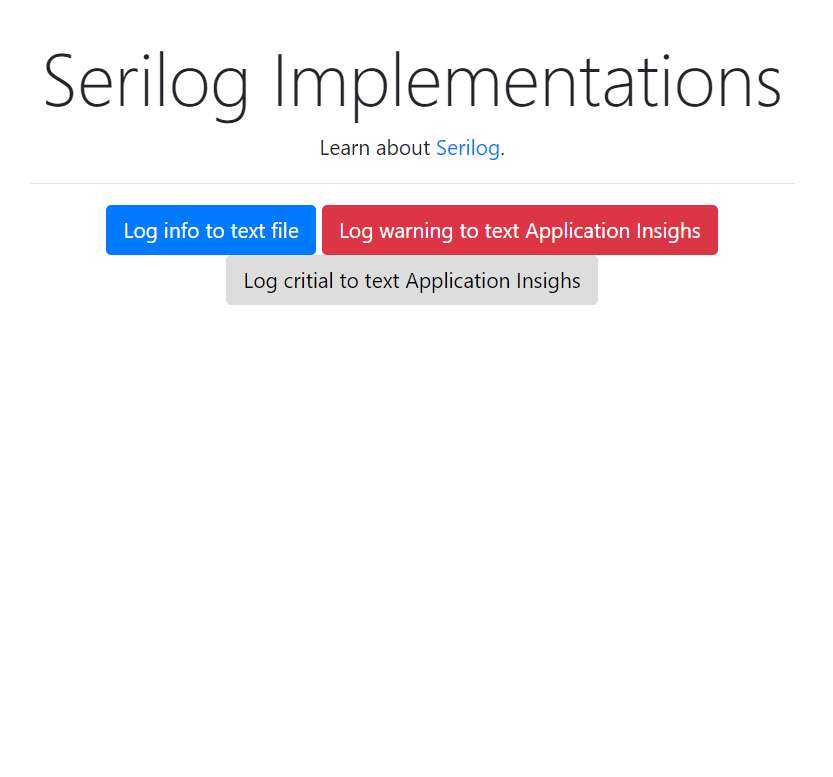
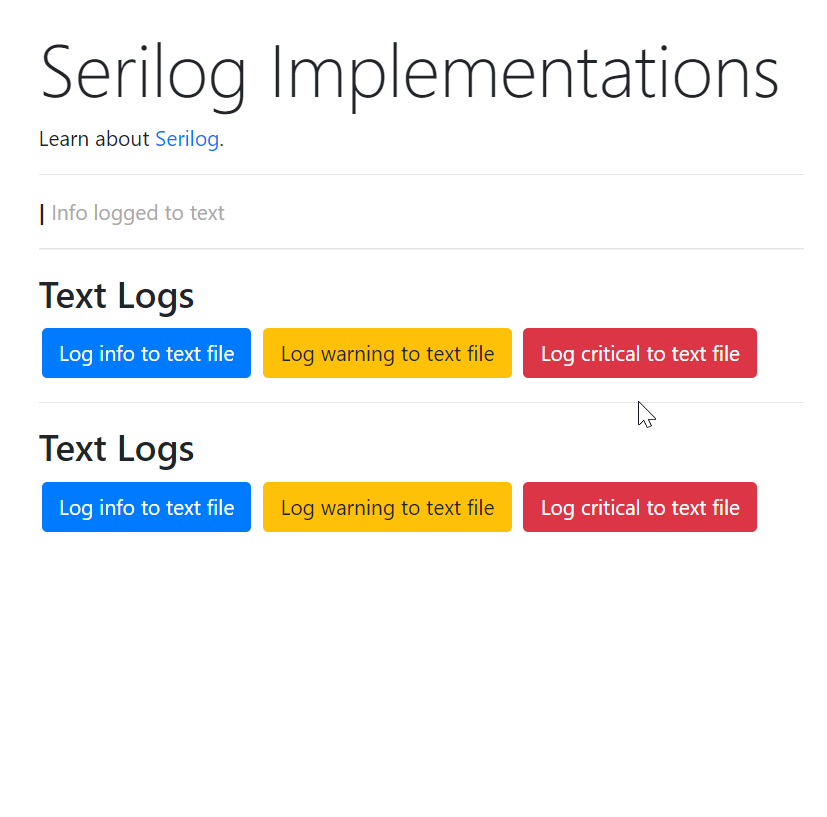
Updated post methods

diff --git a/wwwroot/css/site.css b/wwwroot/css/site.css
@@ -55,3 +55,11 @@ body {
   height: 60px;
   line-height: 60px; /* Vertically center the text there */
 }
+
+input{
+  margin: 2px;
+}
+
+.message {
+  color: darkgray;
+}

diff --git a/Pages/Index.cshtml.cs b/Pages/Index.cshtml.cs
@@ -38,5 +38,13 @@ namespace Serilog_NetCore_Azure.Pages
             Debug.WriteLine("Info logged.");
             Console.WriteLine("Info logged.");
         }
+        public void OnPostCriticalText()
+        {
+            Message = "Critical logged to text";
+
+            Trace.WriteLine("Info logged.");
+            Debug.WriteLine("Info logged.");
+            Console.WriteLine("Info logged.");
+        }
     }
 }
